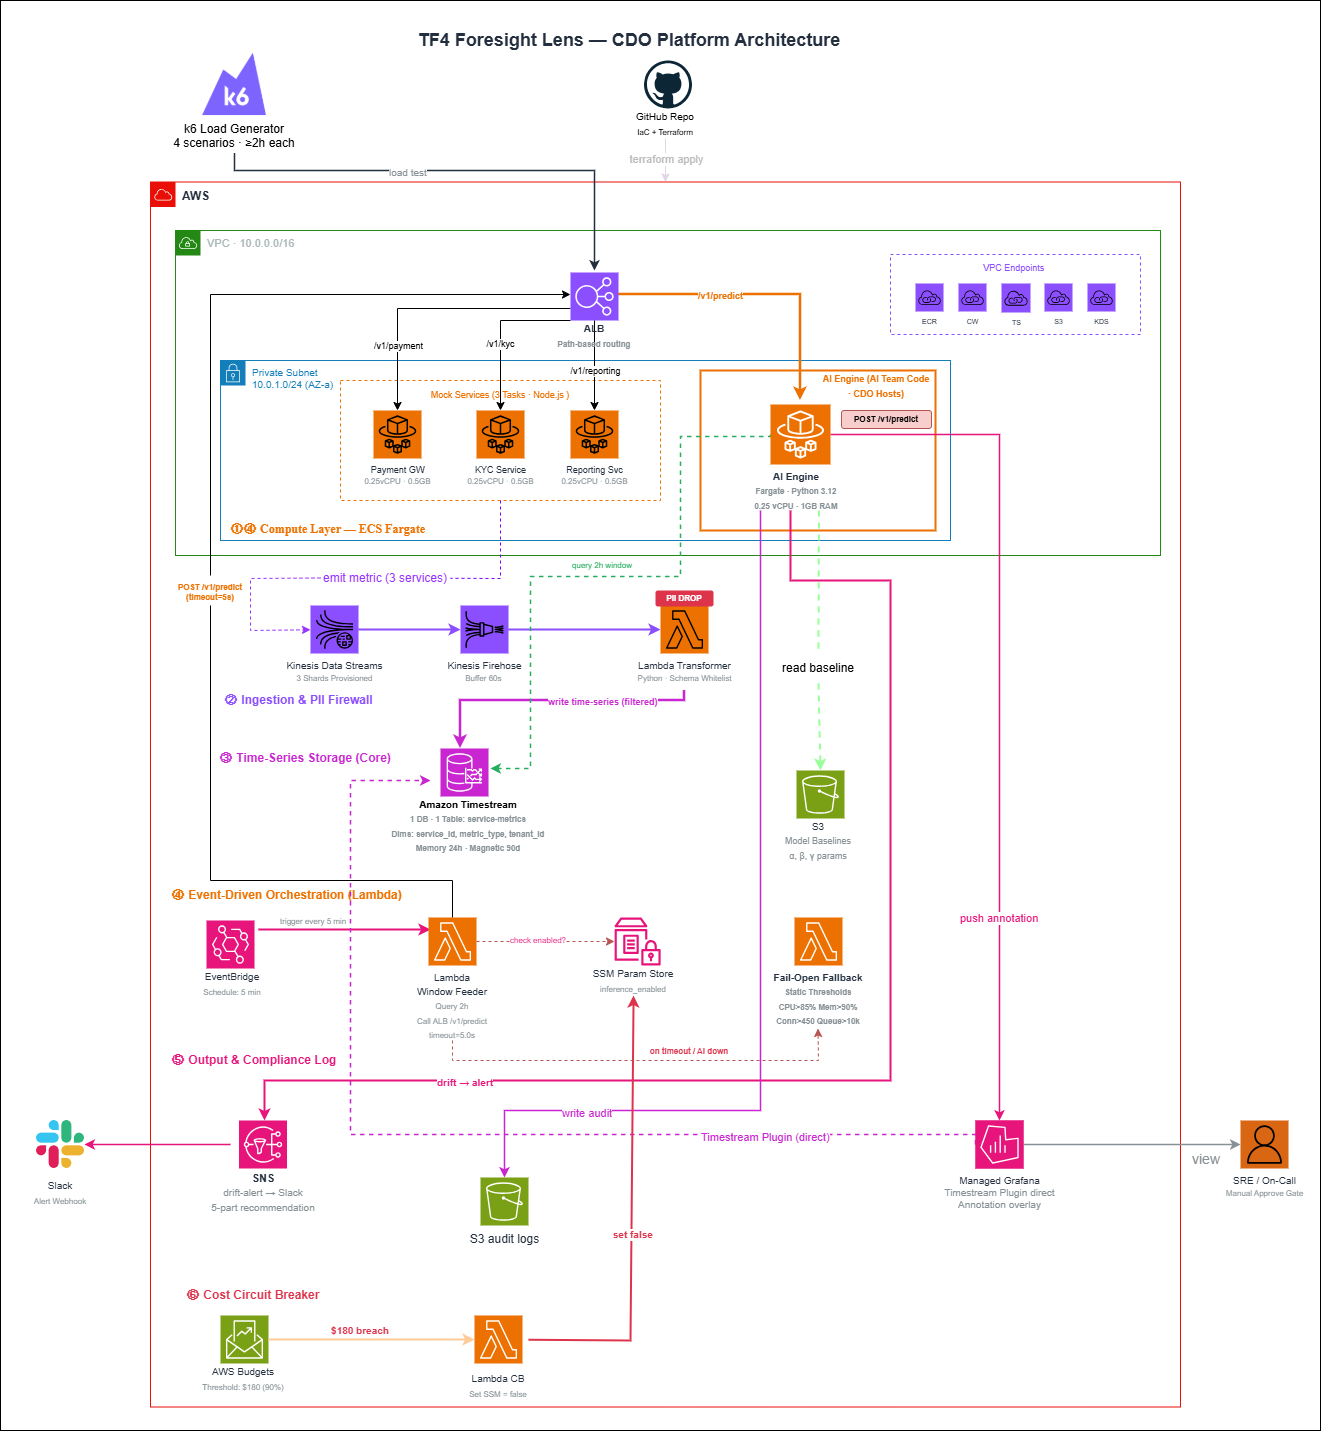
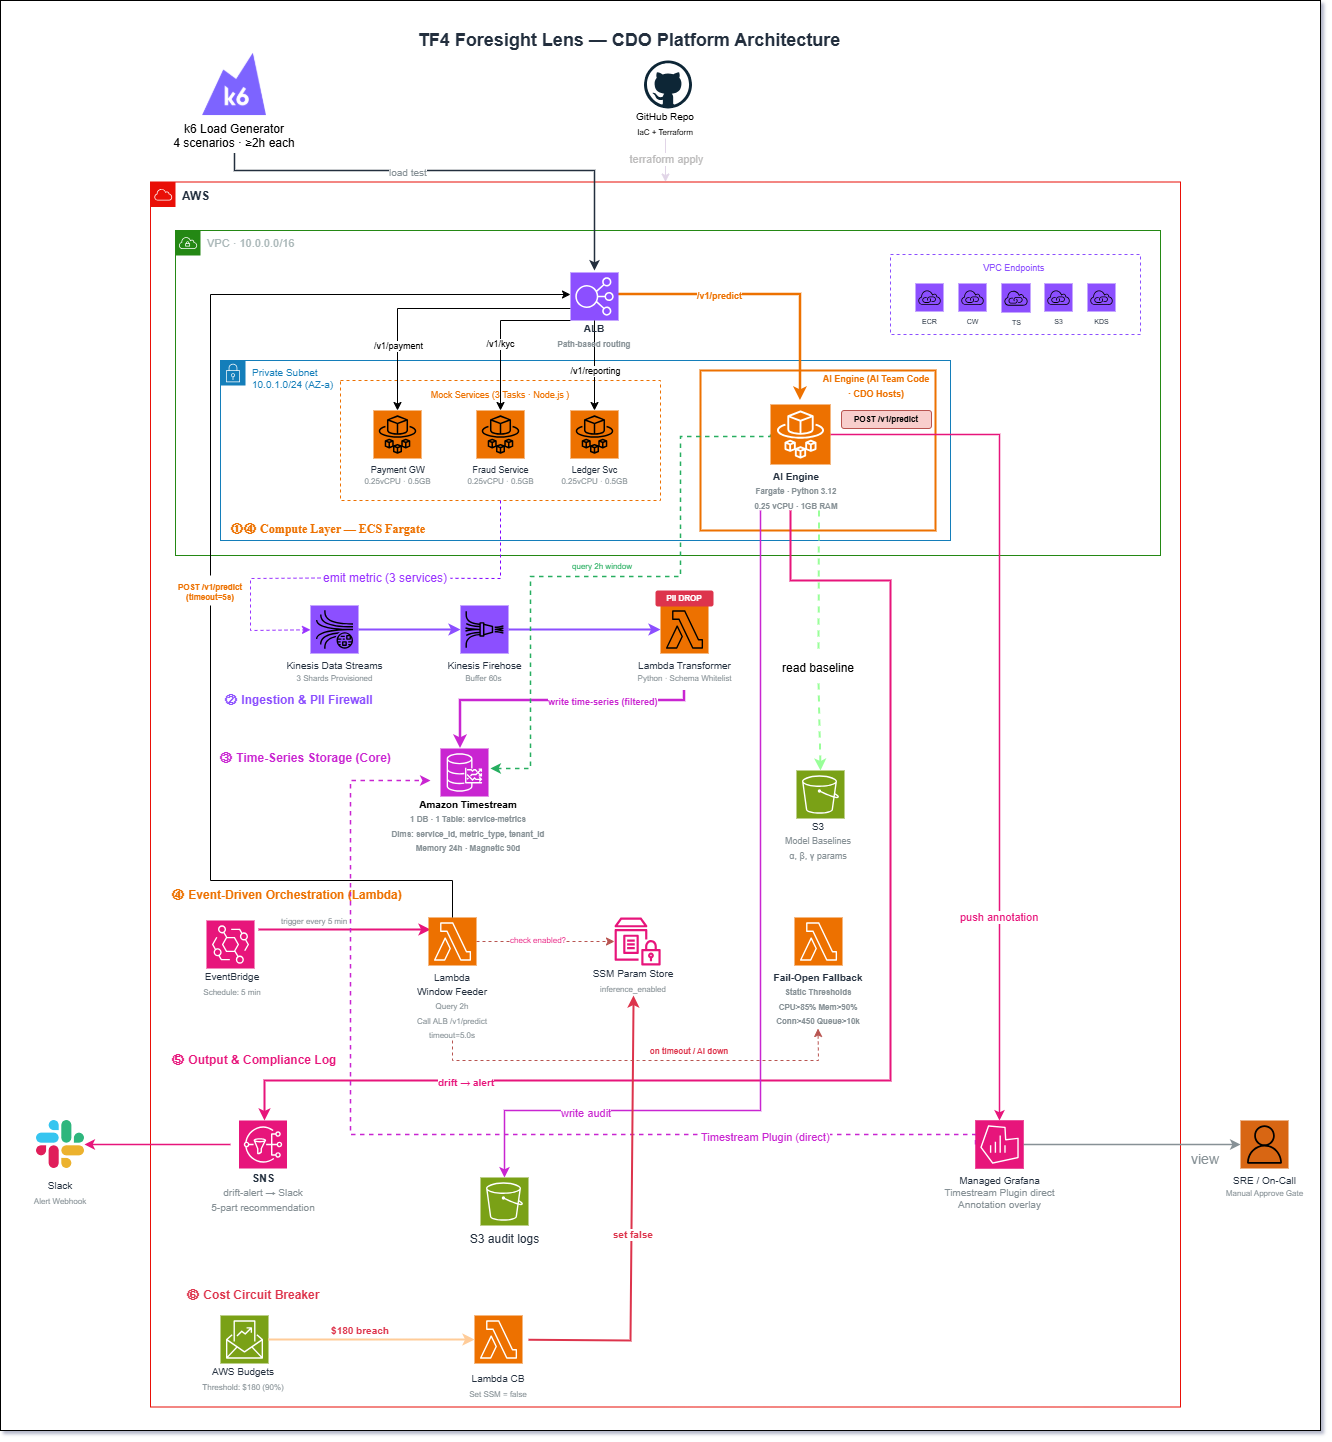
Update infrastructure design - full Vietnamese content and latest diagram

diff --git a/xbrain-learners/capstone/tf-4/cdo-07/docs/02_infra_design.md b/xbrain-learners/capstone/tf-4/cdo-07/docs/02_infra_design.md
@@ -8,53 +8,53 @@
 
 ![CDO7 Architecture](images/CDO7.drawio.png)
 
-*Caption: Foresight Lens predictive monitoring system với telemetry pipeline (mock services → Kinesis → Timestream), AI inference engine (ECS Fargate), và dashboard integration (Grafana annotations). Load balancer routes prediction requests, circuit breaker prevents budget overrun.*
+*Caption: Hệ thống Foresight Lens predictive monitoring với telemetry pipeline từ mock services qua Kinesis Streams đến Timestream DB, AI inference engine chạy trên ECS Fargate, và dashboard tích hợp Grafana annotations. Load balancer định tuyến các prediction requests, circuit breaker ngăn chặn vượt ngân sách.*
 
 ## 2. Component table
 
 | Component | AWS Service | Reason | Cost note |
 |---|---|---|---|
-| **Compute** | ECS Fargate | AI inference engine 24/7 uptime, eliminates Lambda cold start với ML libraries | $11.25 |
-| **API entry** | Application Load Balancer | Routes `/v1/predict` requests, health checks, target group management | $18.43 |
-| **Database** | Amazon Timestream | Time-series optimized, auto-tiered storage (7d Memory + 90d Magnetic), SQL queries | $28.50 |
-| **Storage** | S3 Standard | ML model baselines per-service, configuration files, lifecycle policies | $1.65 |
-| **Event bus** | Kinesis Data Streams | 3 shards partitioned by service_id, 24h replay capability, multi-tenant isolation | $32.85 |
-| **Observability** | Amazon Managed Grafana | Direct Timestream integration, annotations overlay, workspace management | $9.00 |
-| **Load Generation** | ECS Fargate (3 tasks) | Mock payment/kyc/reporting services, Node.js async I/O simulation | $22.83 |
-| **Stream Delivery** | Kinesis Data Firehose | Format transformation to Timestream, delivery buffer configuration | $4.35 |
-| **Audit Storage** | S3 Standard + KMS | Prediction audit logs JSON format, encrypted at-rest, lifecycle to IA after 30d | $0.50 |
-| **Functions** | Lambda + EventBridge | window-feeder (5min trigger), pii-filter (per-event), cost circuit breaker | $0.85 |
-| **Networking** | VPC Endpoints | ECR, CloudWatch, Timestream, S3, Kinesis - private connectivity | $41.50 |
-| **Logging** | CloudWatch Logs | Centralized logging all services, 7-day retention | $8.11 |
-| **Cost Control** | AWS Budgets | $180 threshold alert, Lambda circuit breaker trigger | $0.10 |
+| **Compute** | ECS Fargate | AI inference engine cần uptime 24/7, loại bỏ Lambda cold start với ML libraries | $11.25 |
+| **API entry** | Application Load Balancer | Định tuyến `/v1/predict` requests, health checks, quản lý target group | $18.43 |
+| **Database** | Amazon Timestream | Tối ưu time-series, auto-tiered storage (7 ngày Memory + 90 ngày Magnetic), truy vấn SQL | $28.50 |
+| **Storage** | S3 Standard | ML model baselines theo service, configuration files, lifecycle policies | $1.65 |
+| **Event bus** | Kinesis Data Streams (Provisioned) | 3 shards phân vùng theo service_id, khả năng replay 24h, cách ly multi-tenant | $32.85 |
+| **Observability** | Amazon Managed Grafana | Tích hợp trực tiếp Timestream, annotations overlay, quản lý workspace | $9.00 |
+| **Load Generation** | ECS Fargate (3 tasks) | Mock payment/kyc/reporting services, mô phỏng Node.js async I/O | $22.83 |
+| **Stream Delivery** | Kinesis Data Firehose | Chuyển đổi format sang Timestream, cấu hình delivery buffer | $4.35 |
+| **Audit Storage** | S3 Standard + KMS | Prediction audit logs định dạng JSON, mã hóa at-rest, lifecycle sang IA sau 30 ngày | $0.50 |
+| **Functions** | Lambda + EventBridge | window-feeder (trigger 5 phút), pii-filter (per-event), cost circuit breaker | $0.85 |
+| **Networking** | VPC Endpoints | ECR, CloudWatch, Timestream, S3, Kinesis - kết nối private | $41.50 |
+| **Logging** | CloudWatch Logs | Centralized logging tất cả services, retention 7 ngày | $8.11 |
+| **Cost Control** | AWS Budgets | Ngưỡng cảnh báo $180, trigger Lambda circuit breaker | $0.10 |
 | **Total** | | | **$179.92** |
 
 ## 3. Differentiation angle deep-dive
 
 ### 3.1 Why this angle?
 
-**Serverless-first + Managed TSDB**: Chọn architecture pattern này để optimize cho capstone constraints - zero ops overhead, predictable costs, và rapid deployment timeline. Alternative patterns (self-managed clusters, traditional monitoring stack) require significant operational investment không phù hợp với 3-tuần implementation window.
+**Serverless-first + Managed TSDB**: Chọn kiến trúc này để tối ưu cho ràng buộc capstone - zero ops overhead, chi phí dự đoán được, và timeline triển khai nhanh. Các pattern thay thế (self-managed clusters, traditional monitoring stack) yêu cầu đầu tư vận hành đáng kể không phù hợp với khung thời gian triển khai 3 tuần.
 
-Key architectural decisions:
-- Managed services over self-hosted (Timestream vs Prometheus cluster)  
-- Always-on ECS Fargate over Lambda (eliminate ML cold start issues)
-- Stream-native processing (Kinesis) over batch ETL patterns
-- Single TSDB table over per-service databases (operational simplicity)
+Các quyết định kiến trúc chính:
+- Managed services thay vì self-hosted (Timestream vs Prometheus cluster)  
+- ECS Fargate always-on thay vì Lambda (loại bỏ vấn đề ML cold start)
+- Xử lý stream-native (Kinesis) thay vì batch ETL patterns
+- Single TSDB table thay vì per-service databases (đơn giản vận hành)
 
-### 3.2 Vượt trội ở đâu (số liệu)
+### 3.2 Where we excel (numbers)
 
-| Axis | Serverless+TSDB approach | Self-managed cluster estimate |
+| Axis | My number | Competing angle estimate |
 |---|---|---|
-| Cost / month | $179.92 (89.96% budget utilization) | $200+ (EC2 + EBS + ops tools) |
-| Deployment time | <4h (Terraform + container deploy) | 2-3 days (cluster setup + config) |
-| Ops overhead (hr/week) | 0 (fully managed services) | 8-12 (patching, monitoring, scaling) |
-| Time to scale | Auto (managed service scaling) | Manual (cluster resize + rebalancing) |
+| Chi phí/tháng | $179.92 (89.96% budget utilization) | $200+ (EC2 + EBS + ops tools) |
+| Thời gian triển khai | <4h (Terraform + container deploy) | 2-3 ngày (cluster setup + config) |
+| Ops overhead (giờ/tuần) | 0 (fully managed services) | 8-12 (patching, monitoring, scaling) |
+| Thời gian scale | Auto (managed service scaling) | Manual (cluster resize + rebalancing) |
 
-### 3.3 Weakness chấp nhận
+### 3.3 Weakness acknowledged
 
-- **Vendor lock-in**: Heavy dependency on AWS managed services (Timestream, Kinesis, Fargate). Trade-off acceptable cho capstone timeline vs production portability.
-- **Single region**: No cross-region redundancy to minimize data transfer costs. Recovery strategy documented in ADR but not implemented.
-- **Managed service limits**: Constrained by AWS service quotas (Kinesis shard limits, Timestream ingestion rates) vs self-managed scalability.
+- **Vendor lock-in**: Phụ thuộc nặng vào AWS managed services (Timestream, Kinesis, Fargate). Trade-off chấp nhận được cho timeline capstone vs tính portable production.
+- **Single region**: Không có redundancy cross-region để tối thiểu hóa chi phí data transfer. Recovery strategy được ghi nhận trong ADR nhưng chưa triển khai.
+- **Managed service limits**: Bị giới hạn bởi AWS service quotas (Kinesis shard limits, Timestream ingestion rates) vs khả năng scale self-managed.
 
 ## 4. Multi-tenant approach
 
@@ -66,62 +66,62 @@ Key architectural decisions:
 
 ### 4.2 Isolation pattern
 
-- **Data isolation**: Pool model - single Timestream table `service-metrics` với dimension-level separation qua WHERE filters
+- **Data isolation**: Pool model - single Timestream table `service-metrics` với phân tách dimension-level qua WHERE filters
 - **Compute isolation**: Shared ECS Fargate AI Engine với request-level routing theo payload service_id
-- **Why this pattern**: Balance cost efficiency vs isolation strength. Single table → simple Grafana config, shared compute → $60-80/tháng savings vs per-tenant containers
+- **Tại sao pattern này**: Cân bằng hiệu quả chi phí vs độ mạnh isolation. Single table → cấu hình Grafana đơn giản, shared compute → tiết kiệm $60-80/tháng vs per-tenant containers
 
 ### 4.3 Tenant onboarding flow
 
 ```
-1. Register service_id → k6 allowlist + mock engine configuration
-2. AI team train baseline từ historical data → upload s3://baselines/{service_id}/
-3. EventBridge scheduler setup cho service (5-min prediction intervals) 
-4. Clone Grafana dashboard template → configure service_id variable filter
-5. Smoke test: verify metrics flow + prediction calls → tenant ready
-   Total: <30 phút end-to-end
+1. Đăng ký service_id → k6 allowlist + cấu hình mock engine
+2. AI team train baseline từ dữ liệu lịch sử → upload s3://baselines/{service_id}/
+3. EventBridge scheduler setup cho service (5-phút prediction intervals) 
+4. Clone Grafana dashboard template → cấu hình service_id variable filter
+5. Smoke test: xác minh metrics flow + prediction calls → tenant sẵn sàng
+   Tổng: <30 phút end-to-end
 ```
 
 ### 4.4 Noisy neighbor mitigation
 
-- **Per-tenant quota**: Kinesis partition key = `service_id` → automatic shard routing, throughput isolation
-- **Kinesis shard limits**: Each shard 1MB/sec or 1000 records/sec capacity per partition
-- **Resource reservation**: AI Engine có thể add per-service rate limits (future enhancement)
-- **Audit isolation**: S3 audit logs partitioned by date path `s3://audit-logs/{year}/{month}/{day}/` với prediction_id filename
+- **Per-tenant quota**: Kinesis partition key = `service_id` → định tuyến shard tự động, cách ly throughput
+- **Kinesis shard limits**: Mỗi shard 1MB/sec hoặc 1000 records/sec capacity per partition
+- **Resource reservation**: AI Engine có thể thêm per-service rate limits (future enhancement)
+- **Audit isolation**: S3 audit logs được phân vùng theo date path `s3://audit-logs/{year}/{month}/{day}/` với prediction_id filename
 
 ## 5. Alternatives considered
 
 ### 5.1 Compute layer
 
-- **Option A**: Lambda + API Gateway - Pros: cost per invoke, auto-scaling · Cons: cold start 5-10s với ML libraries, 15min limit
-- **Option B**: EKS + Kubernetes - Pros: container orchestration, flexibility · Cons: cluster management overhead, higher cost
-- ✅ **Chosen**: ECS Fargate + ALB - Reason: Eliminates cold start performance issues, predictable latency <200ms, no cluster management
+- **Option A**: Lambda + API Gateway - Ưu điểm: chi phí theo invoke, auto-scaling · Nhược điểm: cold start 5-10s với ML libraries, giới hạn 15 phút
+- **Option B**: EKS + Kubernetes - Ưu điểm: container orchestration, linh hoạt · Nhược điểm: overhead quản lý cluster, chi phí cao hơn
+- ✅ **Đã chọn**: ECS Fargate + ALB - Lý do: Loại bỏ vấn đề cold start performance, latency dự đoán được <200ms, không cần quản lý cluster
 
 ### 5.2 Database
 
-- **Option A**: Self-managed Prometheus trên EC2 - Pros: PromQL familiar, open source · Cons: ops overhead, ~$90/month EC2 costs
-- **Option B**: InfluxDB Cloud - Pros: time-series optimized · Cons: vendor lock-in, data transfer costs
-- ✅ **Chosen**: Amazon Timestream - Reason: Zero-ops managed service, auto-tiered storage (7d + 90d), SQL queries, $28.50/month
+- **Option A**: Self-managed Prometheus trên EC2 - Ưu điểm: PromQL quen thuộc, open source · Nhược điểm: ops overhead, ~$90/tháng chi phí EC2
+- **Option B**: InfluxDB Cloud - Ưu điểm: tối ưu time-series · Nhược điểm: vendor lock-in, chi phí data transfer
+- ✅ **Đã chọn**: Amazon Timestream - Lý do: Zero-ops managed service, auto-tiered storage (7d + 90d), truy vấn SQL, $28.50/tháng
 
 ### 5.3 Event streaming
 
-- **Option A**: SQS Standard - Pros: simple setup, low cost · Cons: no partitioning, no replay capability
-- **Option B**: Apache Kafka trên MSK - Pros: high throughput, mature ecosystem · Cons: cluster management, higher cost
-- ✅ **Chosen**: Kinesis Data Streams - Reason: Service_id partitioning critical cho multi-tenant isolation, 24h replay cho testing
+- **Option A**: SQS Standard - Ưu điểm: setup đơn giản, chi phí thấp · Nhược điểm: không partitioning, không replay capability
+- **Option B**: Apache Kafka trên MSK - Ưu điểm: high throughput, mature ecosystem · Nhược điểm: quản lý cluster, chi phí cao hơn
+- ✅ **Đã chọn**: Kinesis Data Streams (Provisioned) - Lý do: Service_id partitioning quan trọng cho multi-tenant isolation, replay 24h cho testing, chi phí dự đoán được
 
 ## 6. Scaling strategy
 
-- **Vertical**: ECS auto-scaling CPU >70% for 2 minutes → launch additional task
-- **Horizontal**: Kinesis On-Demand mode auto add/remove shards theo traffic spikes
+- **Vertical**: ECS auto-scaling CPU >70% trong 2 phút → khởi chạy task bổ sung
+- **Horizontal**: Kinosis Provisioned mode thêm/bớt shards theo traffic spikes (manual scaling)
 - **Triggers**: CloudWatch alarms - ECS CPU utilization, Kinesis incoming records, Lambda error rates
 
 ## 7. Failure modes + recovery
 
 | Failure | Detection | Recovery | RTO | RPO |
 |---|---|---|---|---|
-| AI Engine crash | ALB health check fail 3x | ECS auto-restart new task | <30s | 0 |
-| AI timeout >5.0s | Request timeout exception | Fail-open to static thresholds | <1s | 0 |
+| AI Engine crash | ALB health check fail 3 lần | ECS auto-restart task mới | <30s | 0 |
+| AI timeout >5.0s | Request timeout exception | Fail-open sang static thresholds | <1s | 0 |
 | Timestream outage | Firehose delivery errors | Kinesis 24h buffer retention | Auto | 0 |
-| Budget exceed $180 | AWS Budgets alert | Lambda circuit breaker via SSM | <5s | 0 |
+| Budget vượt $180 | AWS Budgets alert | Lambda circuit breaker qua SSM | <5s | 0 |
 | VPC endpoint failure | Connection timeout | Multi-endpoint redundancy | <30s | 0 |
 
 ## Related documents